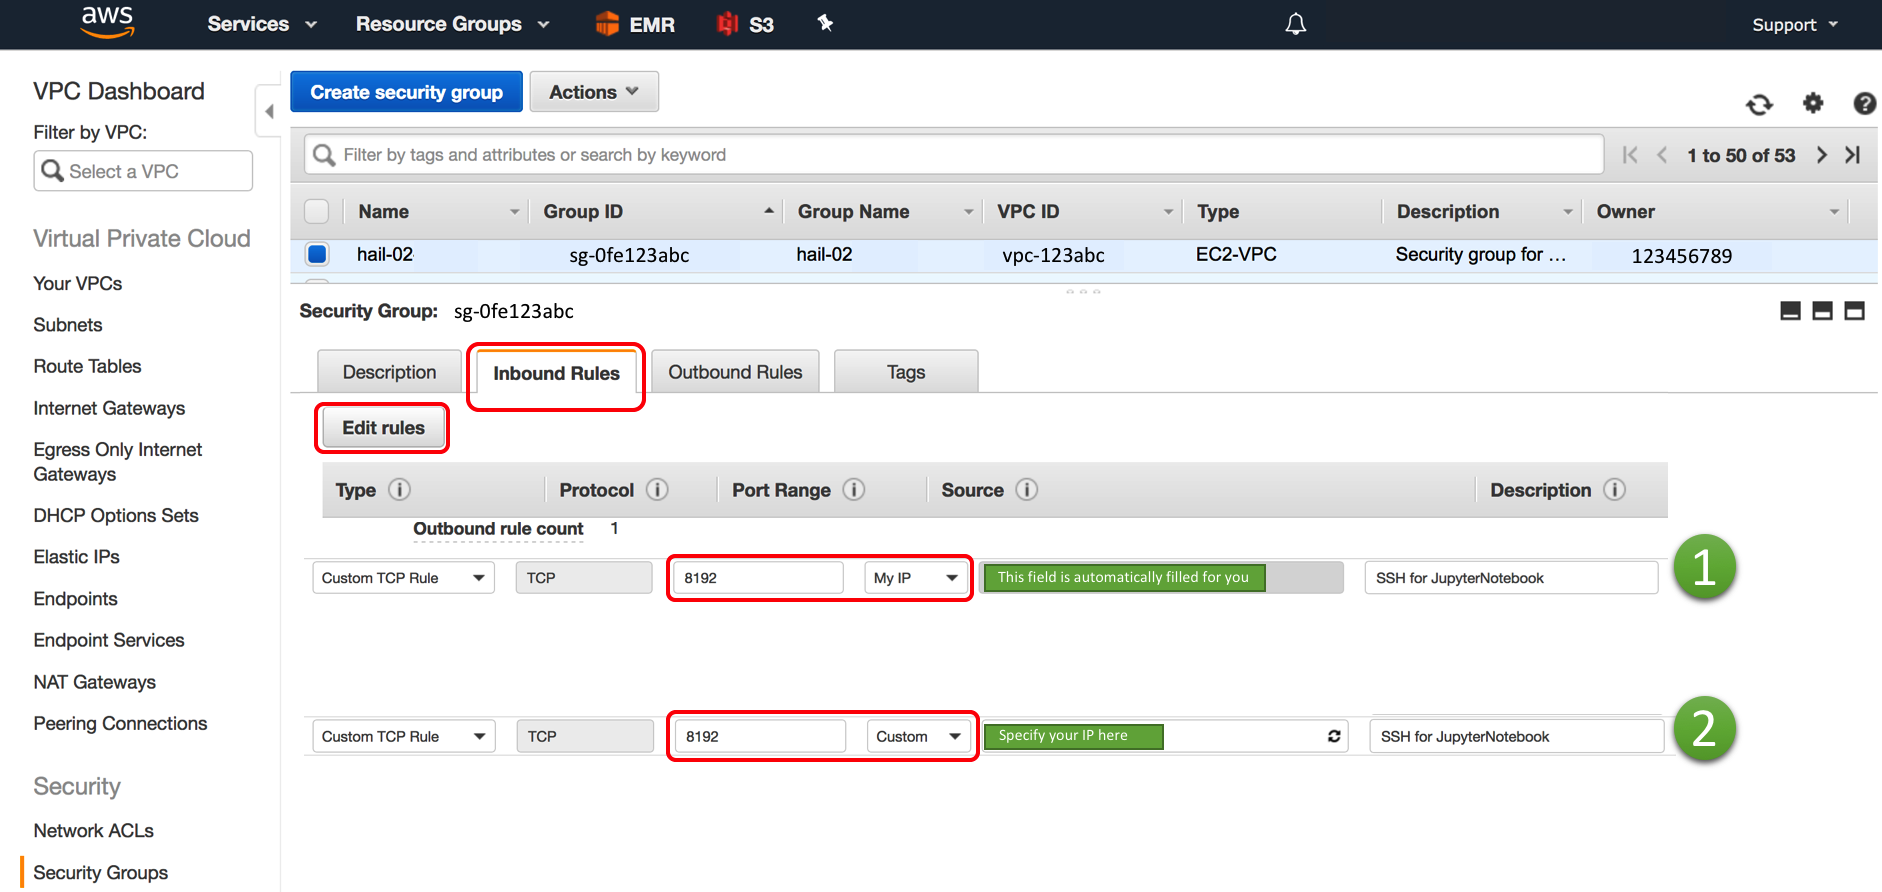
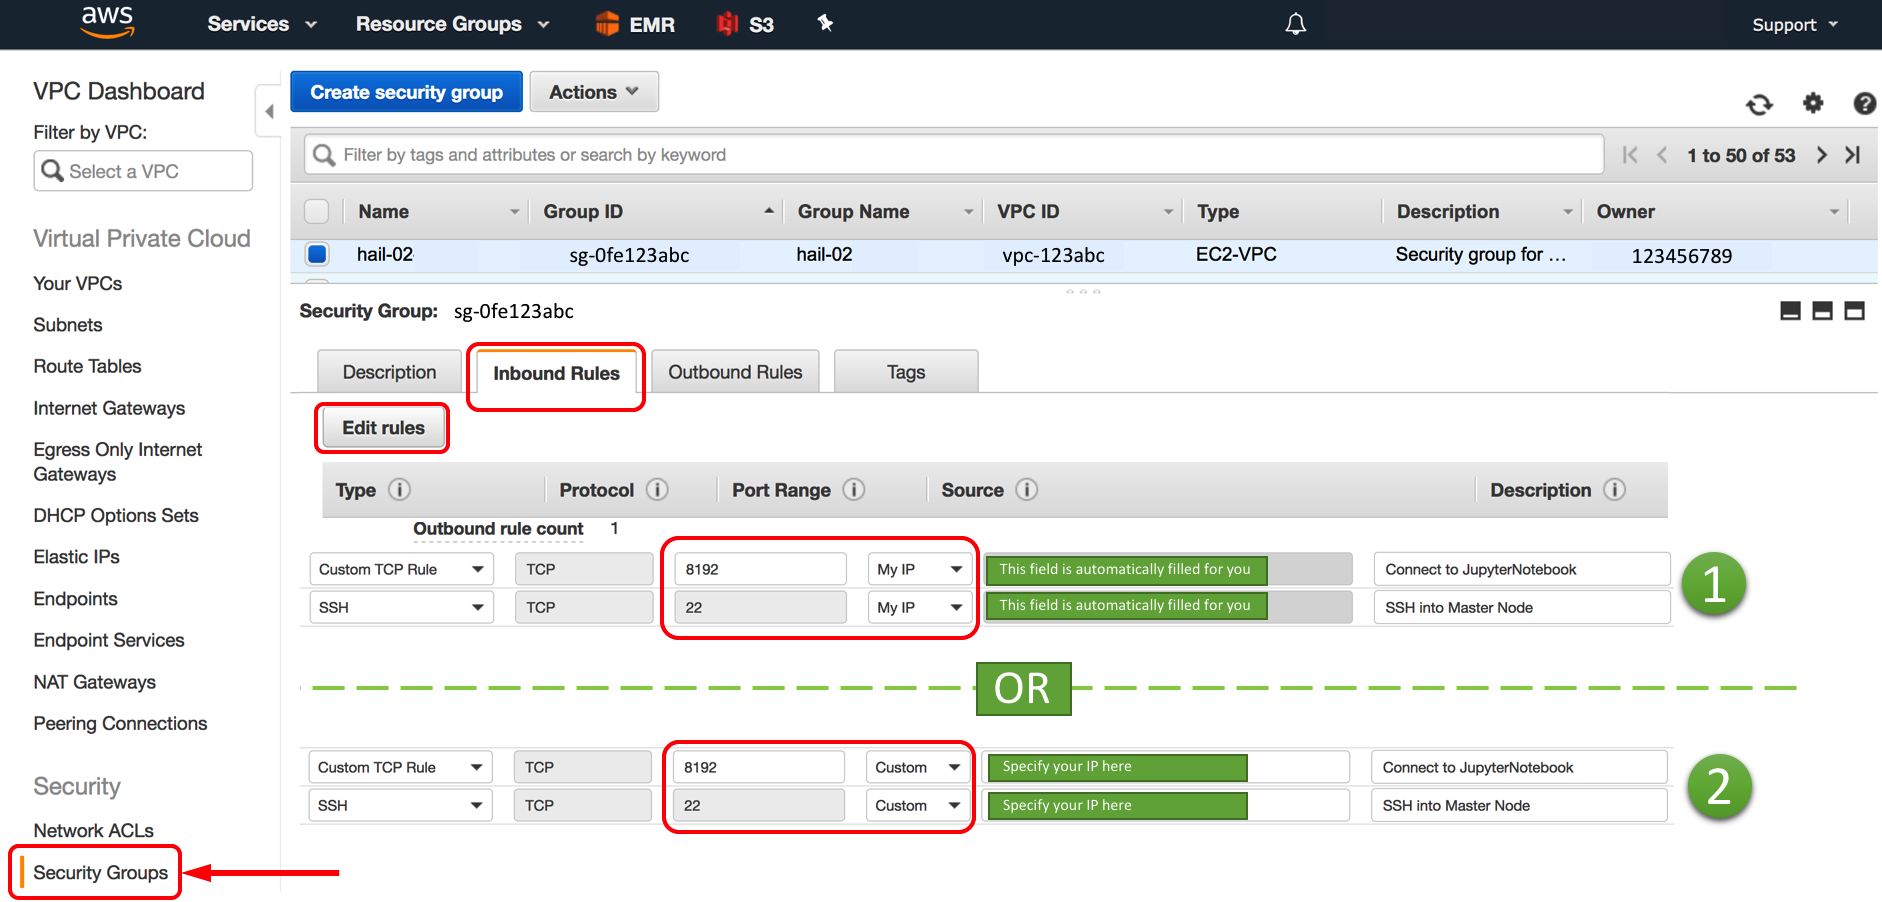
Updated ReadMe, yaml and a regexp argument

diff --git a/src/EMR_deploy_and_install_spot.py b/src/EMR_deploy_and_install_spot.py
@@ -49,7 +49,7 @@ while (status_EMR!='EMPTY'):
 
 # Get public DNS from master node
 master_dns=details_EMR.get('Cluster').get('MasterPublicDnsName')
-master_IP=re.sub("-",".",master_dns.split(".compute")[0].split("ec2-")[1])
+master_IP=re.sub("-",".",master_dns.split(".")[0].split("ec2-")[1])
 
 print('\nMaster DNS: '+ master_dns)
 # print('Master IP: '+ master_IP+'\n')

diff --git a/README.md b/README.md
@@ -78,7 +78,7 @@ b) **A valid EC2 key pair**. [Click here]( https://docs.aws.amazon.com/AWSEC2/la
       SUBNET_ID: "" # This field can be either left blank or for further security you can specify your private subnet ID in the form: subnet-1a2b3c4d
       S3_BUCKET: "s3n://my-s3-bucket/" # Specify your S3 bucket for EMR log storage
       KEY_NAME: "my-key" # Input your key name ONLY! DO NOT include the .pem extension
-      PATH_TO_KEY: "/full-path-to/my-key/" # Full path to the .pem file
+      PATH_TO_KEY: "/full-path-to/my-key/" # # Full path to the FOLDER where the .pem file resides
       WORKER_SECURITY_GROUP: "" # If empty creates a new group by default. You can also add a specific SG. See the SG link in the FAQs section
       MASTER_SECURITY_GROUP: "" # If empty creates a new group by default. You can also add a specific SG. See the SG link in the FAQs section
       HAIL_VERSION: "current" # Specify a git hash version (the first 7-12 characters will suffice) to install a specific commit/version. When left empty or "current" will install the latest version of Hail available in the repo
@@ -130,7 +130,7 @@ b) **A valid EC2 key pair**. [Click here]( https://docs.aws.amazon.com/AWSEC2/la
 
       <img src="https://github.com/hms-dbmi/hail-on-AWS-spot-instances/blob/master/images/security_group.png" width="1024">
 
-      Click on the **Inbound Rules** tab to double check if port `8192` is on the list. To add the port click on **Edit Rules** and use one of the two configurations suggested below:
+      Click on the **Inbound Rules** tab to double check that ports `8192` and `22` are on the list. To add/edit port rules click on **Edit rules** and use **one** of the two configurations suggested below:
 
       <img src="https://github.com/hms-dbmi/hail-on-AWS-spot-instances/blob/master/images/security_group_options.png" width="1024">
 
@@ -166,6 +166,8 @@ use password: **`avillach`** to login. If you successfully log in, you are all s
 
 
 ## FAQs and troubleshooting
+
+* If after executing `sh cloudformation_hail_spot.sh` you get an error message saying that "variable cluster_id_json is out of range" it means that the CLI command `aws emr create-cluster --applications Name=Hadoop Name=Spark ...` did not retrieve a cluster ID. This error occurs due to different reasons: a defective AWS account configuration (`aws configure`), the user needs additional permits such as AmazonElasticMapReduce* or  AmazonEC2*. 
 
 * Some times you may get sudden or unexpected errors. One of the reasons may be the fact that your initial spot instances can be dropped and replaced by a new instance (that's how the spot instance model works). This `cloudformation` tool constantly --every minute-- checks for this behavior and will fix everything for you. A common error when an instance is replaced is:
 
